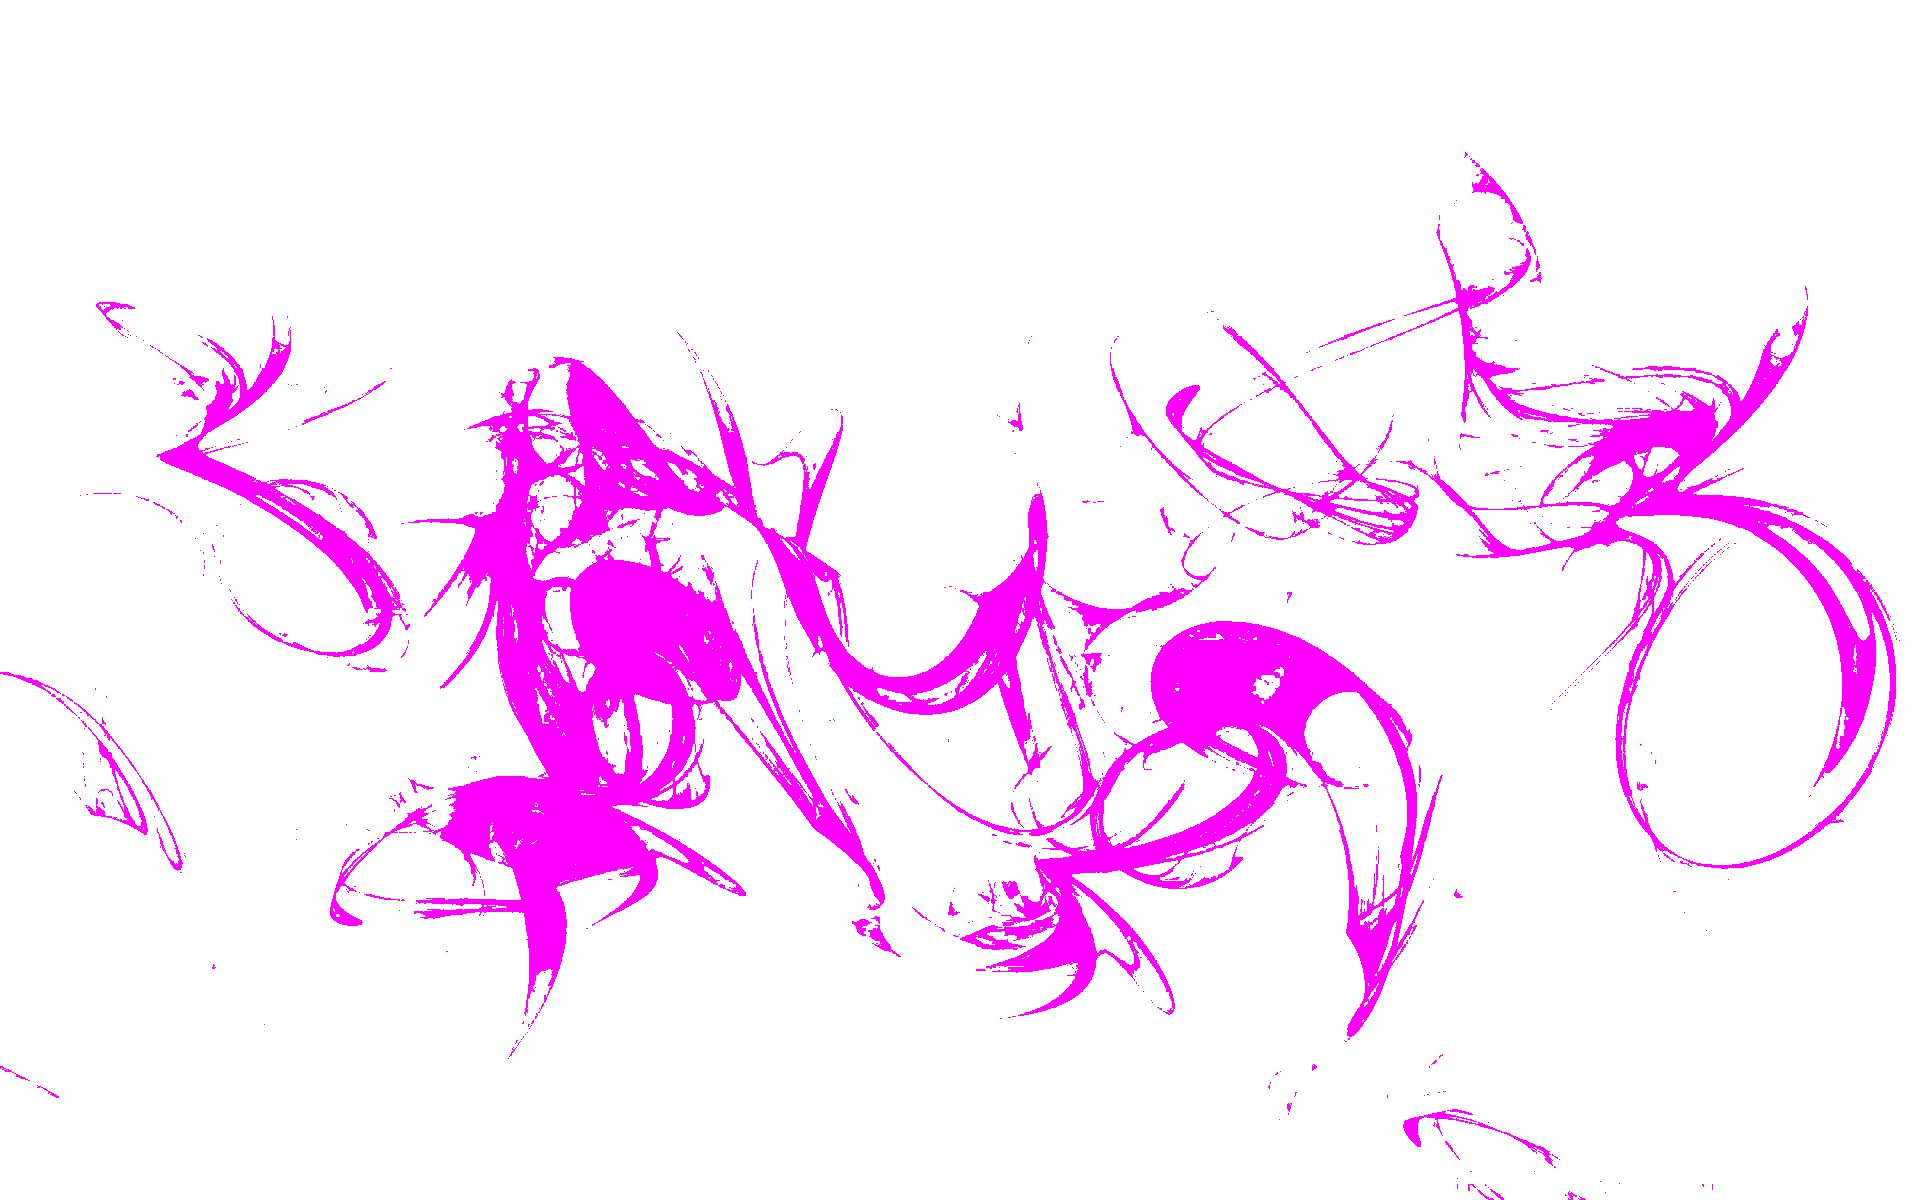
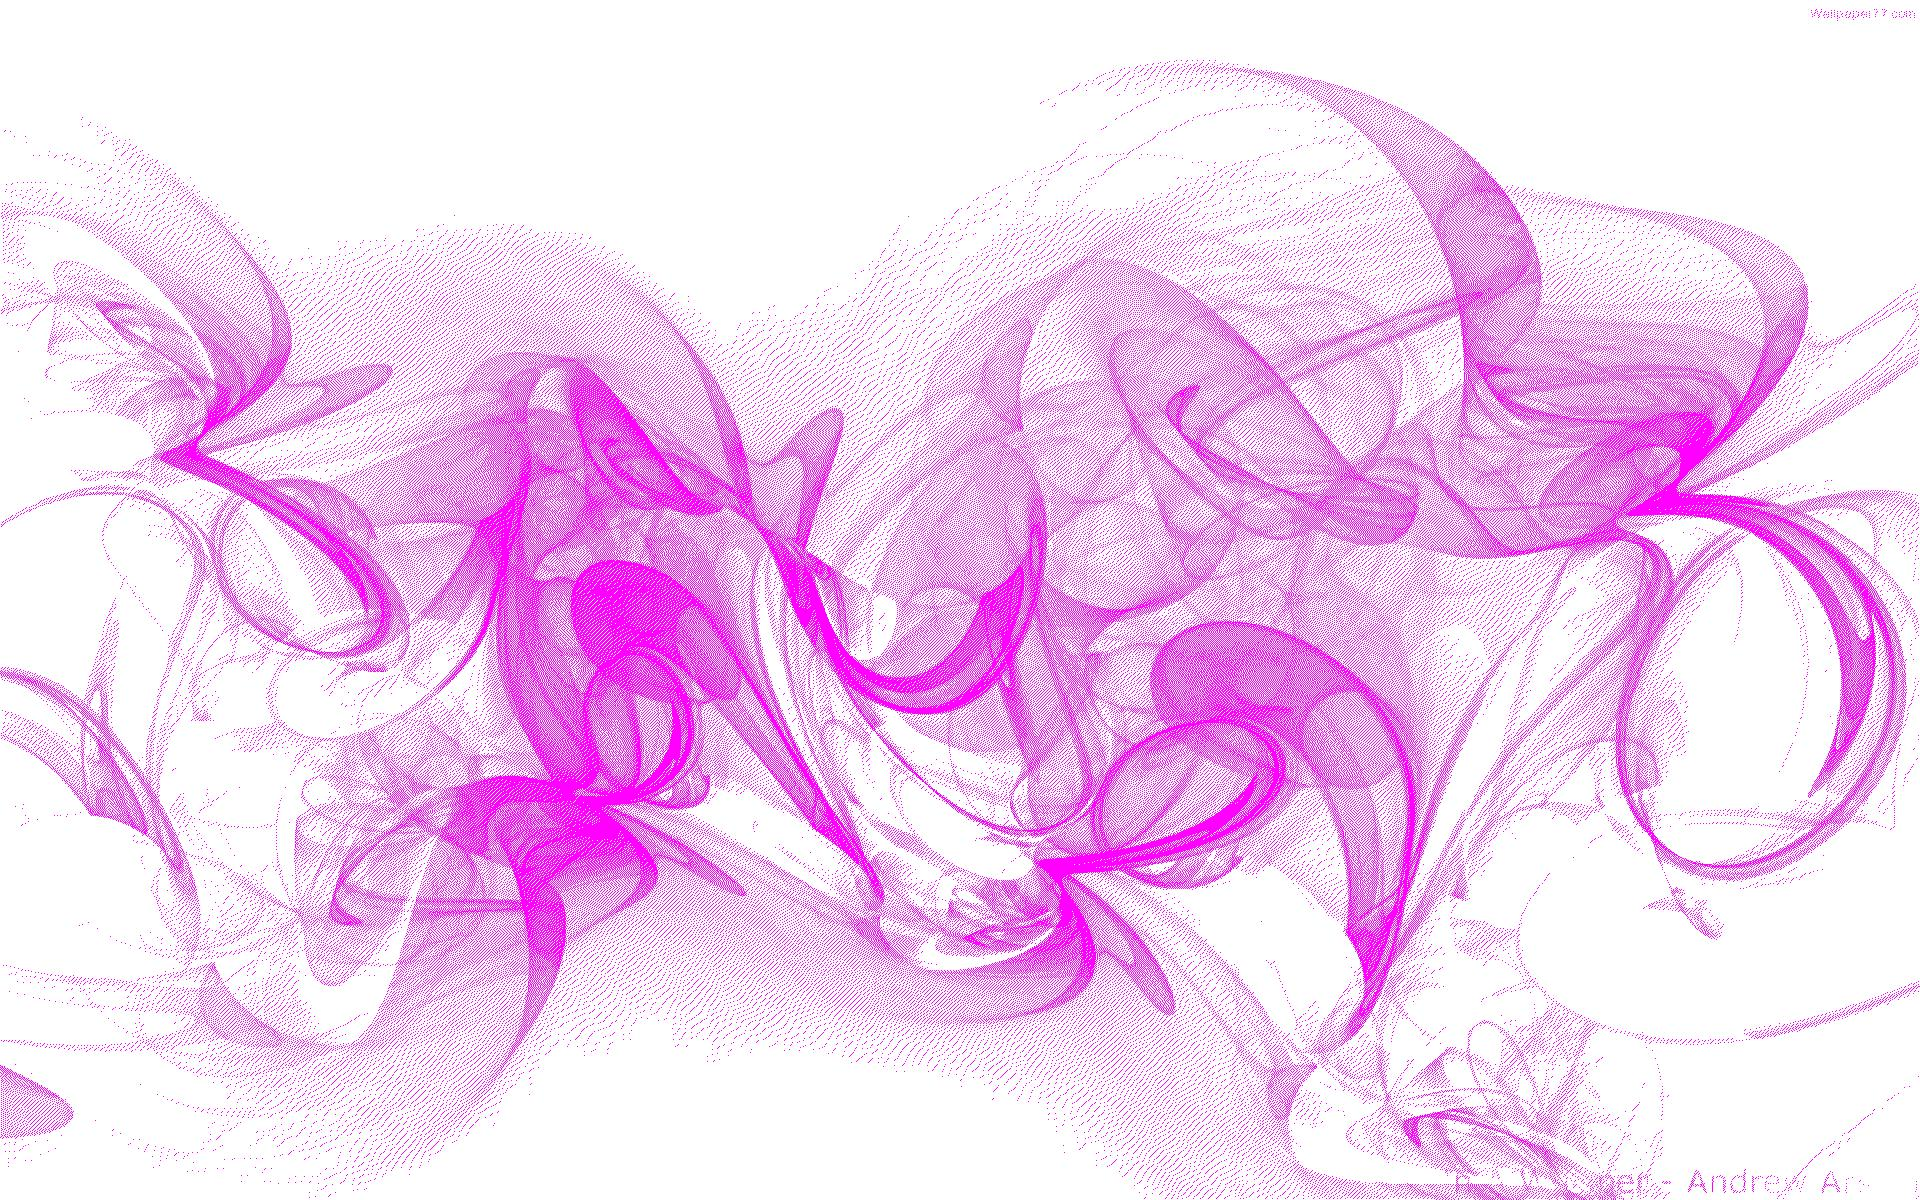
finished Floyd-Steinberg dithering algorithm

diff --git a/src/main/java/com/irinel/craiu/liceanse/halftone/impl/FloydSteinbergDitherer.java b/src/main/java/com/irinel/craiu/liceanse/halftone/impl/FloydSteinbergDitherer.java
@@ -25,7 +25,7 @@ public class FloydSteinbergDitherer implements ImageDitherer {
             for (int j = 0; j < height; j++) {
                 int oldPixel = image.getRGB(i, j);
                 int newPixel = getRgbIntFromColor(getRoundedColorValue(oldPixel, colorChannel), colorChannel);
-                ditheredImage.setRGB(i, j, newPixel);
+
                 int quantizedError = getQuantizationError(oldPixel, newPixel, colorChannel);
 
                 if (i + 1 < width - 1)
@@ -40,6 +40,8 @@ public class FloydSteinbergDitherer implements ImageDitherer {
                 if (i + 1 < width - 1 && j + 1 < height - 1)
                     image.setRGB(i + 1, j + 1,
                             getDitheredPixel(image.getRGB(i + 1, j + 1), quantizedError, (double) 1 / 16, colorChannel));
+
+                ditheredImage.setRGB(i, j, newPixel);
             }
         }
 
@@ -75,8 +77,10 @@ public class FloydSteinbergDitherer implements ImageDitherer {
     }
 
     public int getDitheredPixel(int pixel, int error, double modifier, int colorChannel) {
-        int ditheredColor = getChanellColorFromInt(pixel, colorChannel)
-                + (int) (error * modifier);
+        int ditheredColor = getChanellColorFromInt(pixel, colorChannel) + (int) (error * modifier);
+        if (ditheredColor > 255) ditheredColor = 255;
+        if (ditheredColor < 0) ditheredColor = 0;
+
         return getRgbIntFromColor(ditheredColor, colorChannel);
     }
 

diff --git a/src/test/java/com/irinel/craiu/liceanse/halftone/impl/FloydSteinbergDithererTest.java b/src/test/java/com/irinel/craiu/liceanse/halftone/impl/FloydSteinbergDithererTest.java
@@ -51,6 +51,7 @@ public class FloydSteinbergDithererTest {
             }
         }
 
+
         assertEquals(isImageBinary, true);
     }
 
@@ -71,7 +72,6 @@ public class FloydSteinbergDithererTest {
                 }
             }
         }
-         ImageIO.write(binaryImage , "jpg" , new File("test.jpg"));
 
         assertEquals(isImageBinary, true);
     }

diff --git a/src/test/java/com/irinel/craiu/liceanse/halftone/impl/ColorDecomposerTest.java b/src/test/java/com/irinel/craiu/liceanse/halftone/impl/ColorDecomposerTest.java
@@ -110,8 +110,10 @@ public class ColorDecomposerTest {
         assertEquals(120, colorDecomposer.getRGBColorFromInt(whiteColor).getRed());
         assertEquals(150, colorDecomposer.getRGBColorFromInt(whiteColor).getGreen());
     }
-
+     @Test
     public void testImageReasembles(){
         //TODO: write me
+
+
     }
 }
